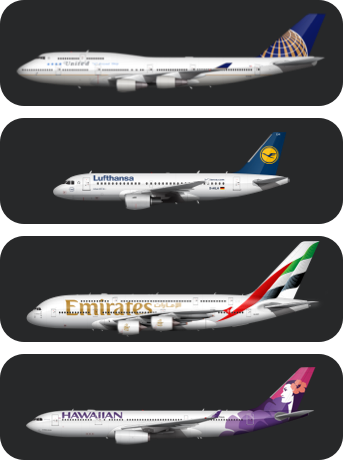
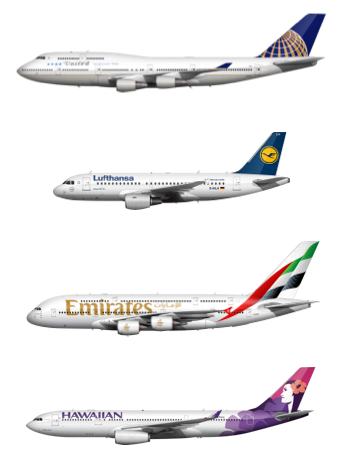
Update landing

diff --git a/components/landing/sections/FeatureSection2.vue b/components/landing/sections/FeatureSection2.vue
@@ -75,29 +75,6 @@
               alt="Web Sharing" class="w-full" />
           </div>
         </div>
-
-        <div class="dark-card flex-card">
-          <div class="w-full lg:w-1/2">
-            <div class="bg-gray-700 p-8">
-              <ResponsiveImage
-                src="/images/mockups/airline-aircraft{size}.png"
-                alt="Airport greeting sign" class="w-full" />
-            </div>
-          </div>
-
-          <div class="p-8 lg:px-12 lg:py-0 w-full lg:w-6/12">
-            <h3 class="h3 mb-6">Beautiful Aircraft Illustrations</h3>
-
-            <p>Mileways Exclusive</p>
-
-            <p class="lg:text-xl text-gray-300 mb-0">
-              Now even in the design of your favourite airline.
-              Curious about your aircraft? Mileways has true-to-life
-              illustrations of your aircraft, some even with the livery
-              of your airline.
-            </p>
-          </div>
-        </div>
       </div>
     </div>
   </section>

diff --git a/components/landing/sections/FeatureSection1.vue b/components/landing/sections/FeatureSection1.vue
@@ -96,6 +96,29 @@
           </p>
         </div>
       </div>
+
+      <div class="light-card flex-card">
+        <div class="p-8 lg:px-12 lg:py-0 w-full lg:w-6/12">
+          <h3 class="h3 mb-6">Beautiful Aircraft Illustrations</h3>
+
+          <p>Mileways Exclusive</p>
+
+          <p class="lg:text-xl text-gray-700 mb-0">
+            Now even in the design of your favourite airline.
+            Curious about your aircraft? Mileways has true-to-life
+            illustrations of your aircraft, some even with the livery
+            of your airline.
+          </p>
+        </div>
+
+        <div class="w-full lg:w-1/2">
+          <div class="bg-gray-300 p-8">
+            <ResponsiveImage
+              src="/images/mockups/airline-aircraft{size}.png"
+              alt="Airport greeting sign" class="w-full" />
+          </div>
+        </div>
+      </div>
     </div>
   </section>
 </template>
